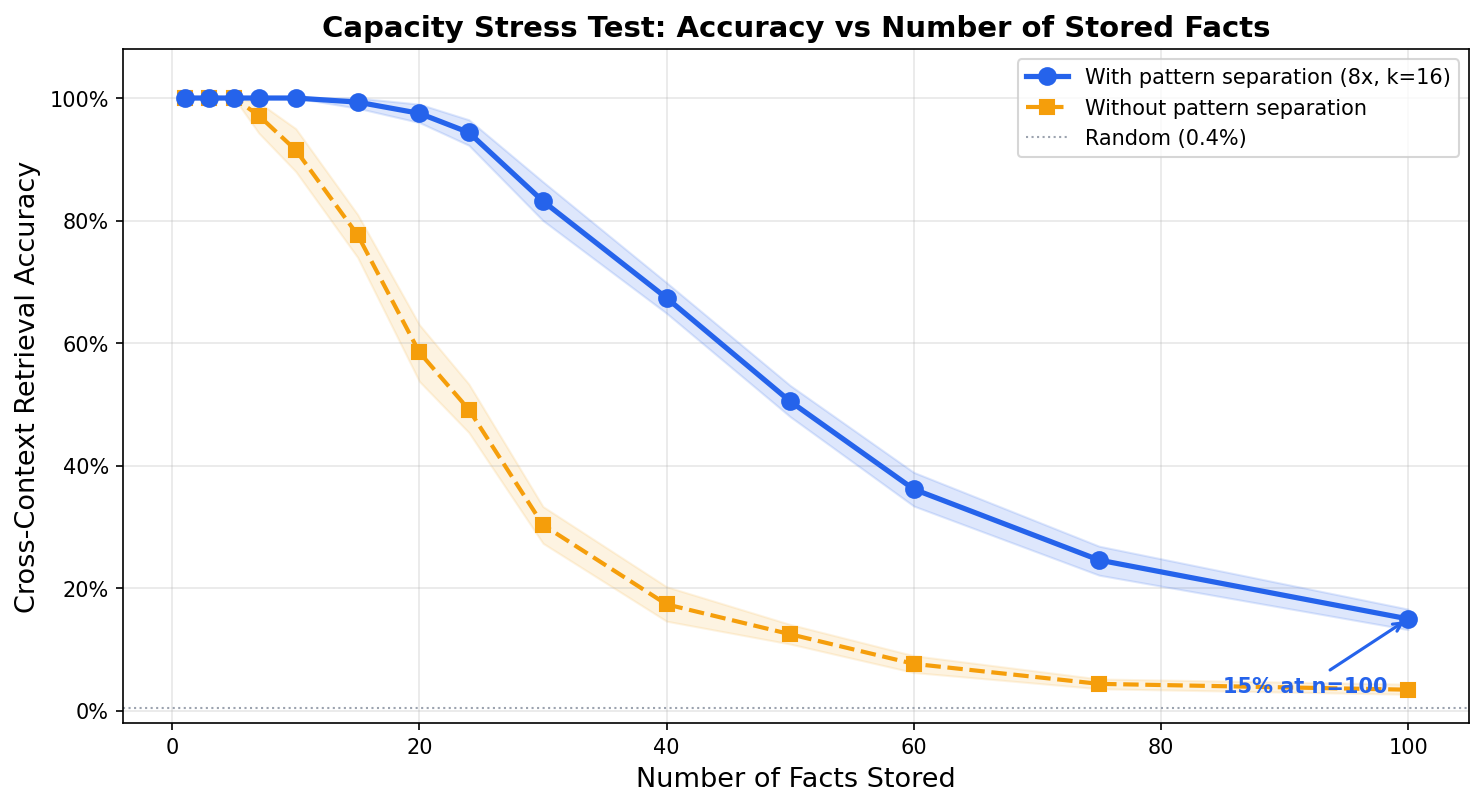
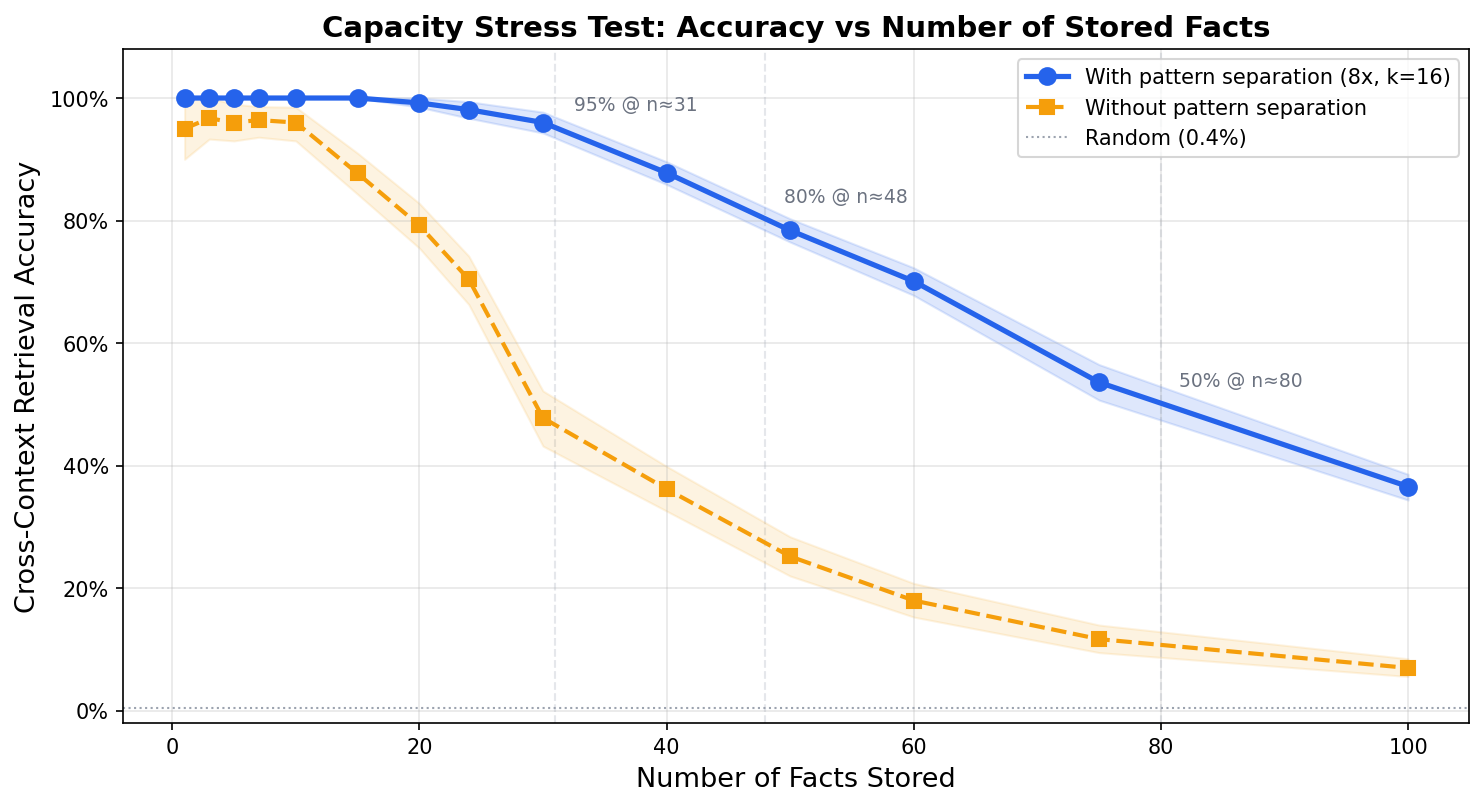
gpt-2 medium test

Changed region(s): [[0.124, 0.0929, 0.9609, 0.8674]]

diff --git a/figures/generate.py b/figures/generate.py
@@ -395,10 +395,165 @@ def generate_rag_comparison():
     print(f"Saved {path}")
 
 
+def generate_capacity_curve():
+    """Capacity stress test: accuracy vs number of stored facts.
+
+    Results from exp17 (20 episodes, seed=42).
+    Tests up to 100 unique fact types with auto-discovered concept words.
+    """
+
+    fig, ax = plt.subplots(figsize=(10, 5.5))
+
+    # With pattern separation (8x, k=16)
+    ns_ps = [1, 3, 5, 7, 10, 15, 20, 24, 30, 40, 50, 60, 75, 100]
+    acc_ps = [1.00, 1.00, 1.00, 1.00, 1.00, 1.00, 0.992, 0.981,
+              0.960, 0.878, 0.784, 0.701, 0.536, 0.366]
+    ci_lo_ps = [1.00, 1.00, 1.00, 1.00, 1.00, 1.00, 0.985, 0.967,
+                0.943, 0.859, 0.765, 0.678, 0.507, 0.344]
+    ci_hi_ps = [1.00, 1.00, 1.00, 1.00, 1.00, 1.00, 1.00, 0.994,
+                0.977, 0.896, 0.803, 0.723, 0.565, 0.386]
+
+    # Without pattern separation
+    ns_no = [1, 3, 5, 7, 10, 15, 20, 24, 30, 40, 50, 60, 75, 100]
+    acc_no = [0.950, 0.967, 0.960, 0.964, 0.960, 0.877, 0.792, 0.704,
+              0.478, 0.362, 0.252, 0.180, 0.117, 0.070]
+    ci_lo_no = [0.900, 0.933, 0.930, 0.936, 0.930, 0.843, 0.755, 0.663,
+                0.432, 0.326, 0.220, 0.153, 0.095, 0.056]
+    ci_hi_no = [1.00, 1.00, 0.990, 0.986, 0.985, 0.910, 0.828, 0.742,
+                0.522, 0.399, 0.284, 0.208, 0.140, 0.085]
+
+    ax.plot(ns_ps, acc_ps, 'o-', color='#2563eb', linewidth=2.5,
+            markersize=8, label='With pattern separation (8x, k=16)', zorder=3)
+    ax.fill_between(ns_ps, ci_lo_ps, ci_hi_ps, alpha=0.15, color='#2563eb')
+
+    ax.plot(ns_no, acc_no, 's--', color='#f59e0b', linewidth=2,
+            markersize=7, label='Without pattern separation', zorder=2)
+    ax.fill_between(ns_no, ci_lo_no, ci_hi_no, alpha=0.12, color='#f59e0b')
+
+    # Random baseline (1/229 entities)
+    ax.axhline(y=0.004, color='#9ca3af', linestyle=':',
+               linewidth=1, label='Random (0.4%)')
+
+    # Capacity milestones
+    milestones = [
+        (0.95, '95%', 31), (0.80, '80%', 48), (0.50, '50%', 80),
+    ]
+    for threshold, label, n_approx in milestones:
+        ax.axvline(x=n_approx, color='#e5e7eb', linewidth=1,
+                   linestyle='--', zorder=0)
+        ax.text(n_approx + 1.5, threshold + 0.03,
+                f'{label} @ n\u2248{n_approx}',
+                fontsize=9, color='#6b7280')
+
+    ax.set_xlabel('Number of Facts Stored', fontsize=13)
+    ax.set_ylabel('Cross-Context Retrieval Accuracy', fontsize=13)
+    ax.set_title('Capacity Stress Test: Accuracy vs Number of Stored Facts',
+                 fontsize=14, fontweight='bold')
+    ax.set_ylim(-0.02, 1.08)
+    ax.yaxis.set_major_formatter(
+        plt.FuncFormatter(lambda y, _: f'{y:.0%}'))
+    ax.legend(loc='upper right', fontsize=10)
+    ax.grid(True, alpha=0.3)
+
+    plt.tight_layout()
+    path = os.path.join(FIGURES_DIR, 'capacity_curve.png')
+    plt.savefig(path, dpi=150, bbox_inches='tight')
+    plt.close()
+    print(f"Saved {path}")
+
+
+def generate_model_scaling():
+    """GPT-2 Small vs Medium: trace mechanism generalizes across model sizes.
+
+    Results from exp18 (50 episodes, seed=42).
+    Both models: PS 8x_k16, trace_lr=1.0, decay=0.99.
+    Alpha auto-tuned: Small=0.5, Medium=1.0.
+    """
+
+    fig, (ax1, ax2) = plt.subplots(1, 2, figsize=(14, 5.5))
+
+    n_facts = [1, 3, 5, 7]
+
+    # -- Panel A: Cross-context accuracy (with PS) --
+    small_cross = [1.000, 0.927, 0.836, 0.829]
+    medium_cross = [1.000, 0.967, 0.872, 0.869]
+    small_bl = [0.060, 0.053, 0.048, 0.080]
+    medium_bl = [0.060, 0.053, 0.048, 0.080]
+
+    ax1.plot(n_facts, medium_cross, 'o-', color='#2563eb', linewidth=2.5,
+             markersize=9, label='GPT-2 Medium (355M)', zorder=3)
+    ax1.plot(n_facts, small_cross, 's-', color='#f59e0b', linewidth=2.5,
+             markersize=8, label='GPT-2 Small (124M)', zorder=2)
+    ax1.plot(n_facts, small_bl, '^--', color='#9ca3af', linewidth=1.5,
+             markersize=6, label='No trace (random)', zorder=1)
+
+    ax1.fill_between(n_facts, small_cross, medium_cross,
+                     alpha=0.15, color='#2563eb')
+
+    # Delta annotations
+    for i, n in enumerate(n_facts):
+        delta = medium_cross[i] - small_cross[i]
+        if delta > 0.005:
+            ax1.annotate(f'+{delta:.1%}',
+                         xy=(n, medium_cross[i]), xytext=(n + 0.25, medium_cross[i] + 0.03),
+                         fontsize=9, color='#2563eb', fontweight='bold')
+
+    ax1.set_xlabel('Number of Facts', fontsize=12)
+    ax1.set_ylabel('Cross-Context Accuracy', fontsize=12)
+    ax1.set_title('(A) Cross-Context Retrieval\n(PS 8x_k16, question-only input)',
+                  fontsize=12, fontweight='bold')
+    ax1.set_xticks(n_facts)
+    ax1.set_ylim(-0.02, 1.12)
+    ax1.yaxis.set_major_formatter(plt.FuncFormatter(lambda y, _: f'{y:.0%}'))
+    ax1.legend(loc='lower left', fontsize=10)
+    ax1.grid(True, alpha=0.3)
+
+    # -- Panel B: Pattern separation effect --
+    medium_no_ps = [1.000, 0.853, 0.740, 0.694]
+    medium_ps = [1.000, 0.967, 0.872, 0.869]
+    small_no_ps = [1.000, 0.830, 0.736, 0.714]
+    small_ps = [1.000, 0.927, 0.836, 0.829]
+
+    x = np.arange(len(n_facts))
+    width = 0.2
+
+    bars1 = ax2.bar(x - 1.5*width, small_no_ps, width, label='Small, no PS',
+                    color='#fcd34d', edgecolor='white', linewidth=1)
+    bars2 = ax2.bar(x - 0.5*width, small_ps, width, label='Small + PS',
+                    color='#f59e0b', edgecolor='white', linewidth=1)
+    bars3 = ax2.bar(x + 0.5*width, medium_no_ps, width, label='Medium, no PS',
+                    color='#93c5fd', edgecolor='white', linewidth=1)
+    bars4 = ax2.bar(x + 1.5*width, medium_ps, width, label='Medium + PS',
+                    color='#2563eb', edgecolor='white', linewidth=1)
+
+    ax2.set_xlabel('Number of Facts', fontsize=12)
+    ax2.set_ylabel('Cross-Context Accuracy', fontsize=12)
+    ax2.set_title('(B) Pattern Separation Effect\n(consistent across model sizes)',
+                  fontsize=12, fontweight='bold')
+    ax2.set_xticks(x)
+    ax2.set_xticklabels([str(n) for n in n_facts])
+    ax2.set_ylim(0, 1.12)
+    ax2.yaxis.set_major_formatter(plt.FuncFormatter(lambda y, _: f'{y:.0%}'))
+    ax2.legend(loc='lower left', fontsize=9, ncol=2)
+    ax2.grid(True, axis='y', alpha=0.3)
+    ax2.set_axisbelow(True)
+
+    fig.suptitle('Model Scaling: Trace Mechanism Generalizes from 124M to 355M Parameters',
+                 fontsize=14, fontweight='bold', y=1.02)
+
+    plt.tight_layout()
+    path = os.path.join(FIGURES_DIR, 'model_scaling.png')
+    plt.savefig(path, dpi=150, bbox_inches='tight')
+    plt.close()
+    print(f"Saved {path}")
+
+
 if __name__ == "__main__":
     generate_retention_curve()
     generate_ablation_chart()
     generate_cross_context_table()
     generate_architecture_diagram()
     generate_rag_comparison()
+    generate_capacity_curve()
+    generate_model_scaling()
     print("\nAll figures generated.")

diff --git a/medium_test.py b/medium_test.py
@@ -1,0 +1,138 @@
+#!/usr/bin/env python3
+"""GPT-2 Medium (355M) transfer test.
+
+Verifies that the Hebbian trace mechanism generalizes from GPT-2 Small
+(124M, d=768) to GPT-2 Medium (355M, d=1024) without any retraining.
+
+The trace module auto-scales projections to match d_model:
+  - GPT-2 Small:  W_proj (512, 768),  ~1.1M trace params
+  - GPT-2 Medium: W_proj (512, 1024), ~1.6M trace params
+
+Usage:
+    python medium_test.py                    # 50 episodes
+    python medium_test.py --n-eval 100       # 100 episodes
+    python medium_test.py --model gpt2       # run on Small for comparison
+"""
+
+import argparse
+import time
+
+import torch
+from transformers import GPT2Tokenizer
+
+from hebbian_trace.model import GPT2WithTrace
+from hebbian_trace.tasks import (
+    build_fact_types,
+    get_linking_bpe_ids,
+    get_all_entity_ids,
+    make_eval_episodes,
+    evaluate_baseline,
+    evaluate_cross_context,
+    evaluate_cross_context_baseline,
+)
+
+
+def get_device() -> str:
+    if torch.cuda.is_available():
+        return "cuda"
+    if hasattr(torch.backends, "mps") and torch.backends.mps.is_available():
+        return "mps"
+    return "cpu"
+
+
+def run_test(model_name: str = 'gpt2-medium', n_eval: int = 50,
+             alpha: float | None = None):
+    device = get_device()
+
+    # Auto-select alpha based on model (logit scales differ)
+    if alpha is None:
+        alpha = 1.0 if 'medium' in model_name else 0.5
+
+    print("=" * 70)
+    print(f"  Hebbian Trace — {model_name} Transfer Test")
+    print("=" * 70)
+    print(f"  Device:    {device}")
+    print(f"  Alpha:     {alpha}")
+    print(f"  Episodes:  {n_eval}")
+    print()
+
+    tokenizer = GPT2Tokenizer.from_pretrained('gpt2')
+    fact_types = build_fact_types(tokenizer)
+    linking_ids = get_linking_bpe_ids(tokenizer)
+
+    print(f"Loading {model_name}...")
+    t0 = time.time()
+    model = GPT2WithTrace(
+        n_trace_heads=8, d_trace=64,
+        alpha=alpha, trace_lr=1.0, trace_decay=0.99,
+        model_name=model_name, device=device,
+    )
+    model.set_linking_token_ids(linking_ids)
+    model.enable_pattern_separation(expand_factor=8, top_k=16, seed=0)
+    dt = time.time() - t0
+
+    config = model.gpt2.config
+    trace_params = sum(p.numel() for p in model.trace.parameters())
+    gpt2_params = sum(p.numel() for p in model.gpt2.parameters())
+
+    print(f"  Loaded in {dt:.1f}s")
+    print(f"  d_model:     {config.n_embd}")
+    print(f"  n_layers:    {config.n_layer}")
+    print(f"  GPT-2 params:{gpt2_params:,} (frozen)")
+    print(f"  Trace params:{trace_params:,}")
+    print()
+
+    # Evaluate
+    n_facts_list = [1, 3, 5, 7]
+
+    print("-" * 70)
+    print(f"  {'n':>3}  {'Cross+Trace':>13}  {'In-context':>12}  "
+          f"{'No-trace':>10}  {'Gap':>8}  {'Time':>6}")
+    print("-" * 70)
+
+    for n_facts in n_facts_list:
+        episodes = make_eval_episodes(
+            n_eval, n_facts, tokenizer, fact_types, seed=42)
+
+        t0 = time.time()
+
+        cross = evaluate_cross_context(
+            model, episodes, fact_types, verbose=False)
+        baseline = evaluate_baseline(
+            model, episodes, fact_types, tokenizer, verbose=False)
+        cross_bl = evaluate_cross_context_baseline(
+            model, episodes, fact_types)
+
+        dt = time.time() - t0
+        gap = cross.accuracy - cross_bl.accuracy
+
+        print(f"  {n_facts:>3}  {cross.accuracy:>13.1%}  "
+              f"{baseline.accuracy:>12.1%}  "
+              f"{cross_bl.accuracy:>10.1%}  "
+              f"{gap:>+7.1%}  {dt:>5.0f}s")
+
+    print("-" * 70)
+    print()
+    print(f"  Model: {model_name} ({gpt2_params/1e6:.0f}M params)")
+    print(f"  Trace: {trace_params:,} params ({trace_params/gpt2_params*100:.1f}% "
+          f"of model)")
+    print(f"  Config: PS 8x_k16, alpha={alpha}, "
+          f"trace_lr=1.0, decay=0.99")
+    print()
+
+
+def main():
+    parser = argparse.ArgumentParser(
+        description="GPT-2 Medium transfer test")
+    parser.add_argument("--model", type=str, default="gpt2-medium",
+                        help="Model name (gpt2, gpt2-medium)")
+    parser.add_argument("--n-eval", type=int, default=50)
+    parser.add_argument("--alpha", type=float, default=None,
+                        help="Logit injection strength (auto if not set)")
+    args = parser.parse_args()
+
+    run_test(model_name=args.model, n_eval=args.n_eval, alpha=args.alpha)
+
+
+if __name__ == "__main__":
+    main()

diff --git a/hebbian_trace/model.py b/hebbian_trace/model.py
@@ -423,10 +423,12 @@ class GPT2WithTrace(nn.Module):
 
     def __init__(self, n_trace_heads: int = 8, d_trace: int = 64,
                  alpha: float = 0.1, trace_lr: float = 0.1,
-                 trace_decay: float = 0.99, device: str | None = None):
+                 trace_decay: float = 0.99,
+                 model_name: str = 'gpt2',
+                 device: str | None = None):
         super().__init__()
 
-        self.gpt2 = GPT2LMHeadModel.from_pretrained('gpt2')
+        self.gpt2 = GPT2LMHeadModel.from_pretrained(model_name)
         self.gpt2.requires_grad_(False)
         self.gpt2.eval()
 
